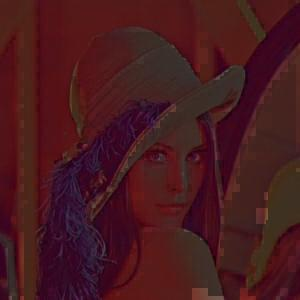
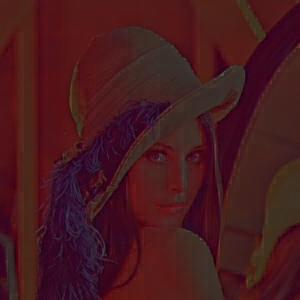
Reinhard Local reference code working

diff --git a/src/ReinhardLocal.cpp b/src/ReinhardLocal.cpp
@@ -19,8 +19,12 @@ http://www.ceng.metu.edu.tr/~akyuz/files/hdrgpu.pdf
 
 using namespace hdr;
 
-ReinhardLocal::ReinhardLocal() : Filter() {
+ReinhardLocal::ReinhardLocal(float _key, float _sat, float _epsilon, float _phi) : Filter() {
 	m_name = "ReinhardLocal";
+	key = _key;
+	sat = _sat;
+	epsilon = _epsilon;
+	phi = _phi;
 }
 
 bool ReinhardLocal::setupOpenCL(cl_context_properties context_prop[], const Params& params) {
@@ -178,11 +182,6 @@ bool ReinhardLocal::runReference(Image input, Image output) {
 	reportStatus("Running reference");
 
 
-	//some parameters
-	float key = 0.18f;
-	float sat = 1.6f;
-	float epsilon = 0.05;
-	float phi = 8.0;
 	const int mipmap_levels = 8;
 
 	float logAvgLum = 0.f;
@@ -225,12 +224,12 @@ bool ReinhardLocal::runReference(Image input, Image output) {
 				int surround_x = x/pow(2, i+1);
 				int surround_y = y/pow(2, i+1);
 
-				float3 centre_pixel = { getPixel(mipmap_pyramid[i], centre_x, centre_y, 0),
-										getPixel(mipmap_pyramid[i], centre_x, centre_y, 1),
-										getPixel(mipmap_pyramid[i], centre_x, centre_y, 2)};
-				float3 surround_pixel= {getPixel(mipmap_pyramid[i+1], surround_x, surround_y, 0),
-										getPixel(mipmap_pyramid[i+1], surround_x, surround_y, 1),
-										getPixel(mipmap_pyramid[i+1], surround_x, surround_y, 2)};
+				float3 centre_pixel = { getPixel(mipmap_pyramid[i], centre_x, centre_y, 0)/((float)PIXEL_RANGE),
+										getPixel(mipmap_pyramid[i], centre_x, centre_y, 1)/((float)PIXEL_RANGE),
+										getPixel(mipmap_pyramid[i], centre_x, centre_y, 2)/((float)PIXEL_RANGE)};
+				float3 surround_pixel= {getPixel(mipmap_pyramid[i+1], surround_x, surround_y, 0)/((float)PIXEL_RANGE),
+										getPixel(mipmap_pyramid[i+1], surround_x, surround_y, 1)/((float)PIXEL_RANGE),
+										getPixel(mipmap_pyramid[i+1], surround_x, surround_y, 2)/((float)PIXEL_RANGE)};
 				float centre_logAvgLum = getPixelLuminance(centre_pixel);
 				float surround_logAvgLum = getPixelLuminance(surround_pixel);
 
@@ -255,9 +254,11 @@ bool ReinhardLocal::runReference(Image input, Image output) {
 			float L  = (key/logAvgLum) * xyz.y;
 			float Ld = L /(1.0 + local_logAvgLum);
 
-			rgb.x = pow(rgb.x/xyz.y, sat) * Ld;
-			rgb.y = pow(rgb.y/xyz.y, sat) * Ld;
-			rgb.z = pow(rgb.z/xyz.y, sat) * Ld;
+			rgb.x = (pow(rgb.x/xyz.y, sat) * Ld)*PIXEL_RANGE;
+			rgb.y = (pow(rgb.y/xyz.y, sat) * Ld)*PIXEL_RANGE;
+			rgb.z = (pow(rgb.z/xyz.y, sat) * Ld)*PIXEL_RANGE;
+
+			//printf("%f, %f, %f\n", rgb.x, rgb.y, rgb.z);
 
 			setPixel(output, x, y, 0, rgb.x);
 			setPixel(output, x, y, 1, rgb.y);

diff --git a/src/ReinhardLocal.h b/src/ReinhardLocal.h
@@ -4,7 +4,7 @@ namespace hdr
 {
 class ReinhardLocal : public Filter {
 public:
-	ReinhardLocal();
+	ReinhardLocal(float _key=0.18f, float _sat=1.6f, float _epsilon=0.05, float _phi=8.0);
 
 	virtual bool setupOpenCL(cl_context_properties context_prop[], const Params& params);
 	virtual double runCLKernels();
@@ -12,5 +12,13 @@ public:
 	virtual bool runOpenCL(Image input, Image output);
 	virtual bool cleanupOpenCL();
 	virtual bool runReference(Image input, Image output);
+
+protected:
+	//some parameters
+	float key;
+	float sat;
+	float epsilon;
+	float phi;
+
 };
 }
